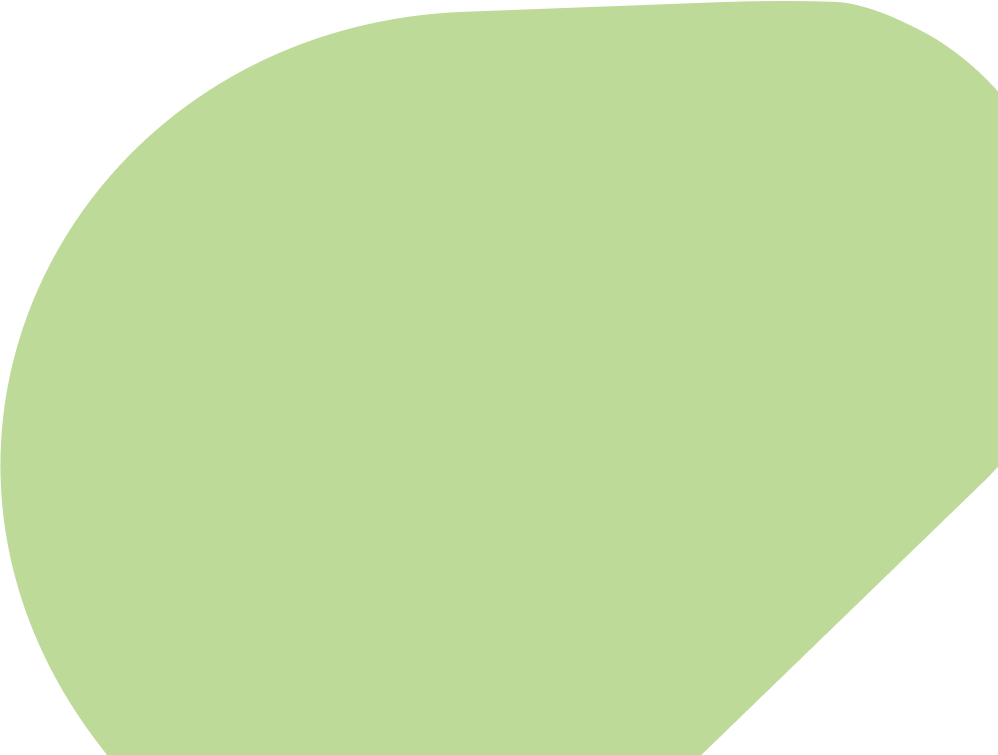
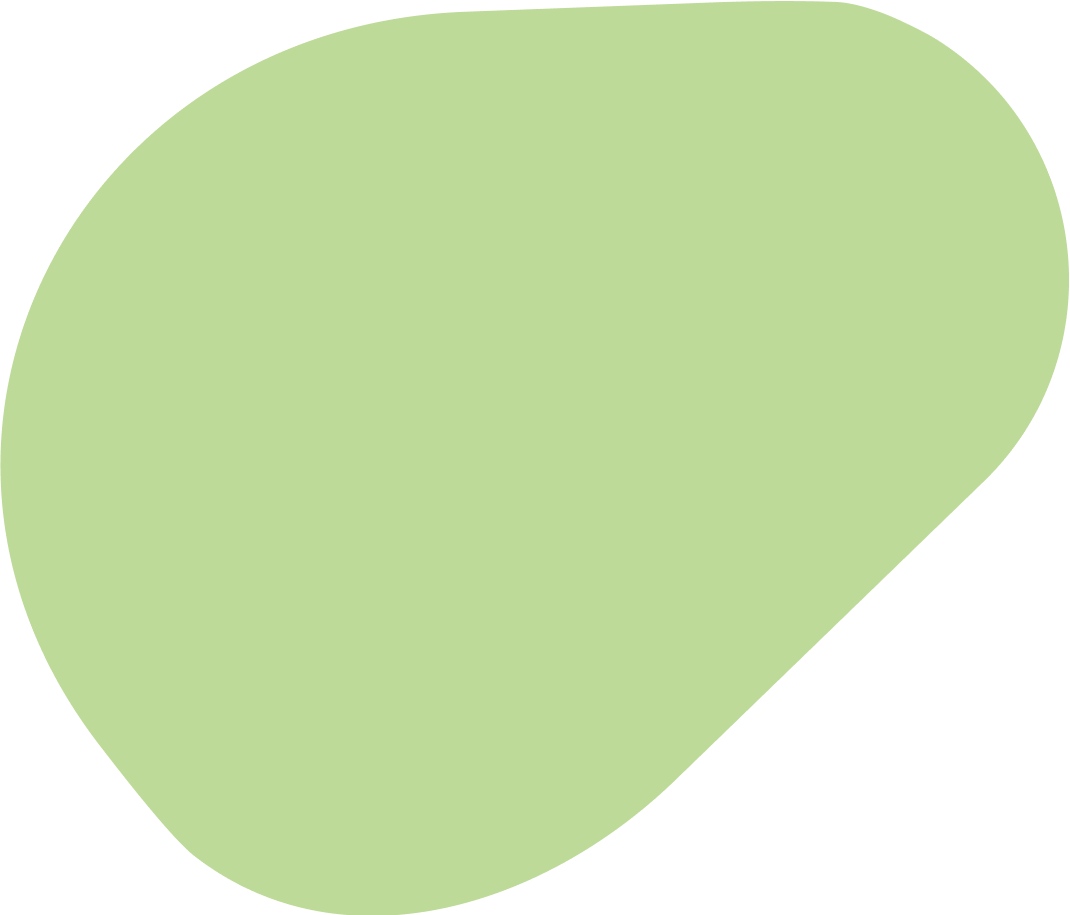
updated circle asset, uploaded all images to website in proper positions

Changed region(s): [[0.3727, 0.0, 1.0, 1.0], [0.0, 0.0, 0.7144, 0.5483], [0.0, 0.5788, 0.3106, 1.0]]

diff --git a/bootstrap/index.html b/bootstrap/index.html
@@ -47,13 +47,17 @@
       
     <!-- </div> -->
     <div class="bg-elements">
-      <img class="image-test" id="brown" src="../assets/brown blob.png" alt="brown decorative element">
-      <img id="green" src="../assets/green left.png" alt="green decorative element">
-      <img id="swallow" src="../assets/bird.png" alt="swallow sitting on a branch">
+      <img class="brown" src="../assets/brown blob.png" alt="brown decorative element">
+      <img class="lines-left" src="../assets/lines 2.png" alt="black outline of an organic looking blob">
+      <img class="swallow" src="../assets/bird.png" alt="swallow sitting on a branch">
+      <img class="green-blob" src="../assets/green left.png" alt="green decorative element">
+      <img class="green-circle" src="../assets/green blob.png" alt="spring green decorative element">
+      <img class="circle" src="../assets/Vector 1.png" alt="black outline of an organic looking blob">
+      <img class="lines-right" src="../assets/lines 1.png" alt="black lines forming an organic shape">
     </div>
     <div class="centeredTxt">
       <p>I wanted to know, 
-        <br> 
+        <br> <br>
         whoever I was, I was 
         <br> <br> 
         alive 

diff --git a/bootstrap/styles.css b/bootstrap/styles.css
@@ -21,36 +21,63 @@
 }
 
 .bg-elements {
-    position:absolute;
-    top:40%;
-    left:0%;
     background-color:gainsboro;
 }
 
-.image-test {
+.swallow {
+    width: 20%;
     position:absolute;
-    bottom:100%;
-    left:70%;
+    bottom:-15%;
+    left: 10%;
 }
 
-#swallow {
-    width: 20%;
+.green-blob {
+    width: 15%;
+    position:absolute;
+    top:20%;
 }
 
-#brown {
-    width: 40;
+.brown {
+    position:absolute;
+    top:0%;
+    left:7%;
+    width:35%;
 }
-#green {
-    width: 20%;
+
+.circle {
+    position:absolute;
+    top:80%;
+    left:45%;
+    width:35%;
+}
+
+.green-circle {
+    position:absolute;
+    top:50%;
+    right:-2%;
+    width:35%;
+}
+
+.lines-right {
+    position:absolute;
+    top:10%;
+    right:0%;
+    width:20%;
+}
+
+.lines-left {
+    position:absolute;
+    top: 24%;
+    width:15%;
 }
 
 .centeredTxt {
     position: absolute;
-    top:50%;
+    top:35%;
     left:40%;
     display: flex;
     align-items: center;
     justify-content: center;
     font-family: 'Halant', serif;
-    font-size:20px;
+    font-size:150%;
 }
